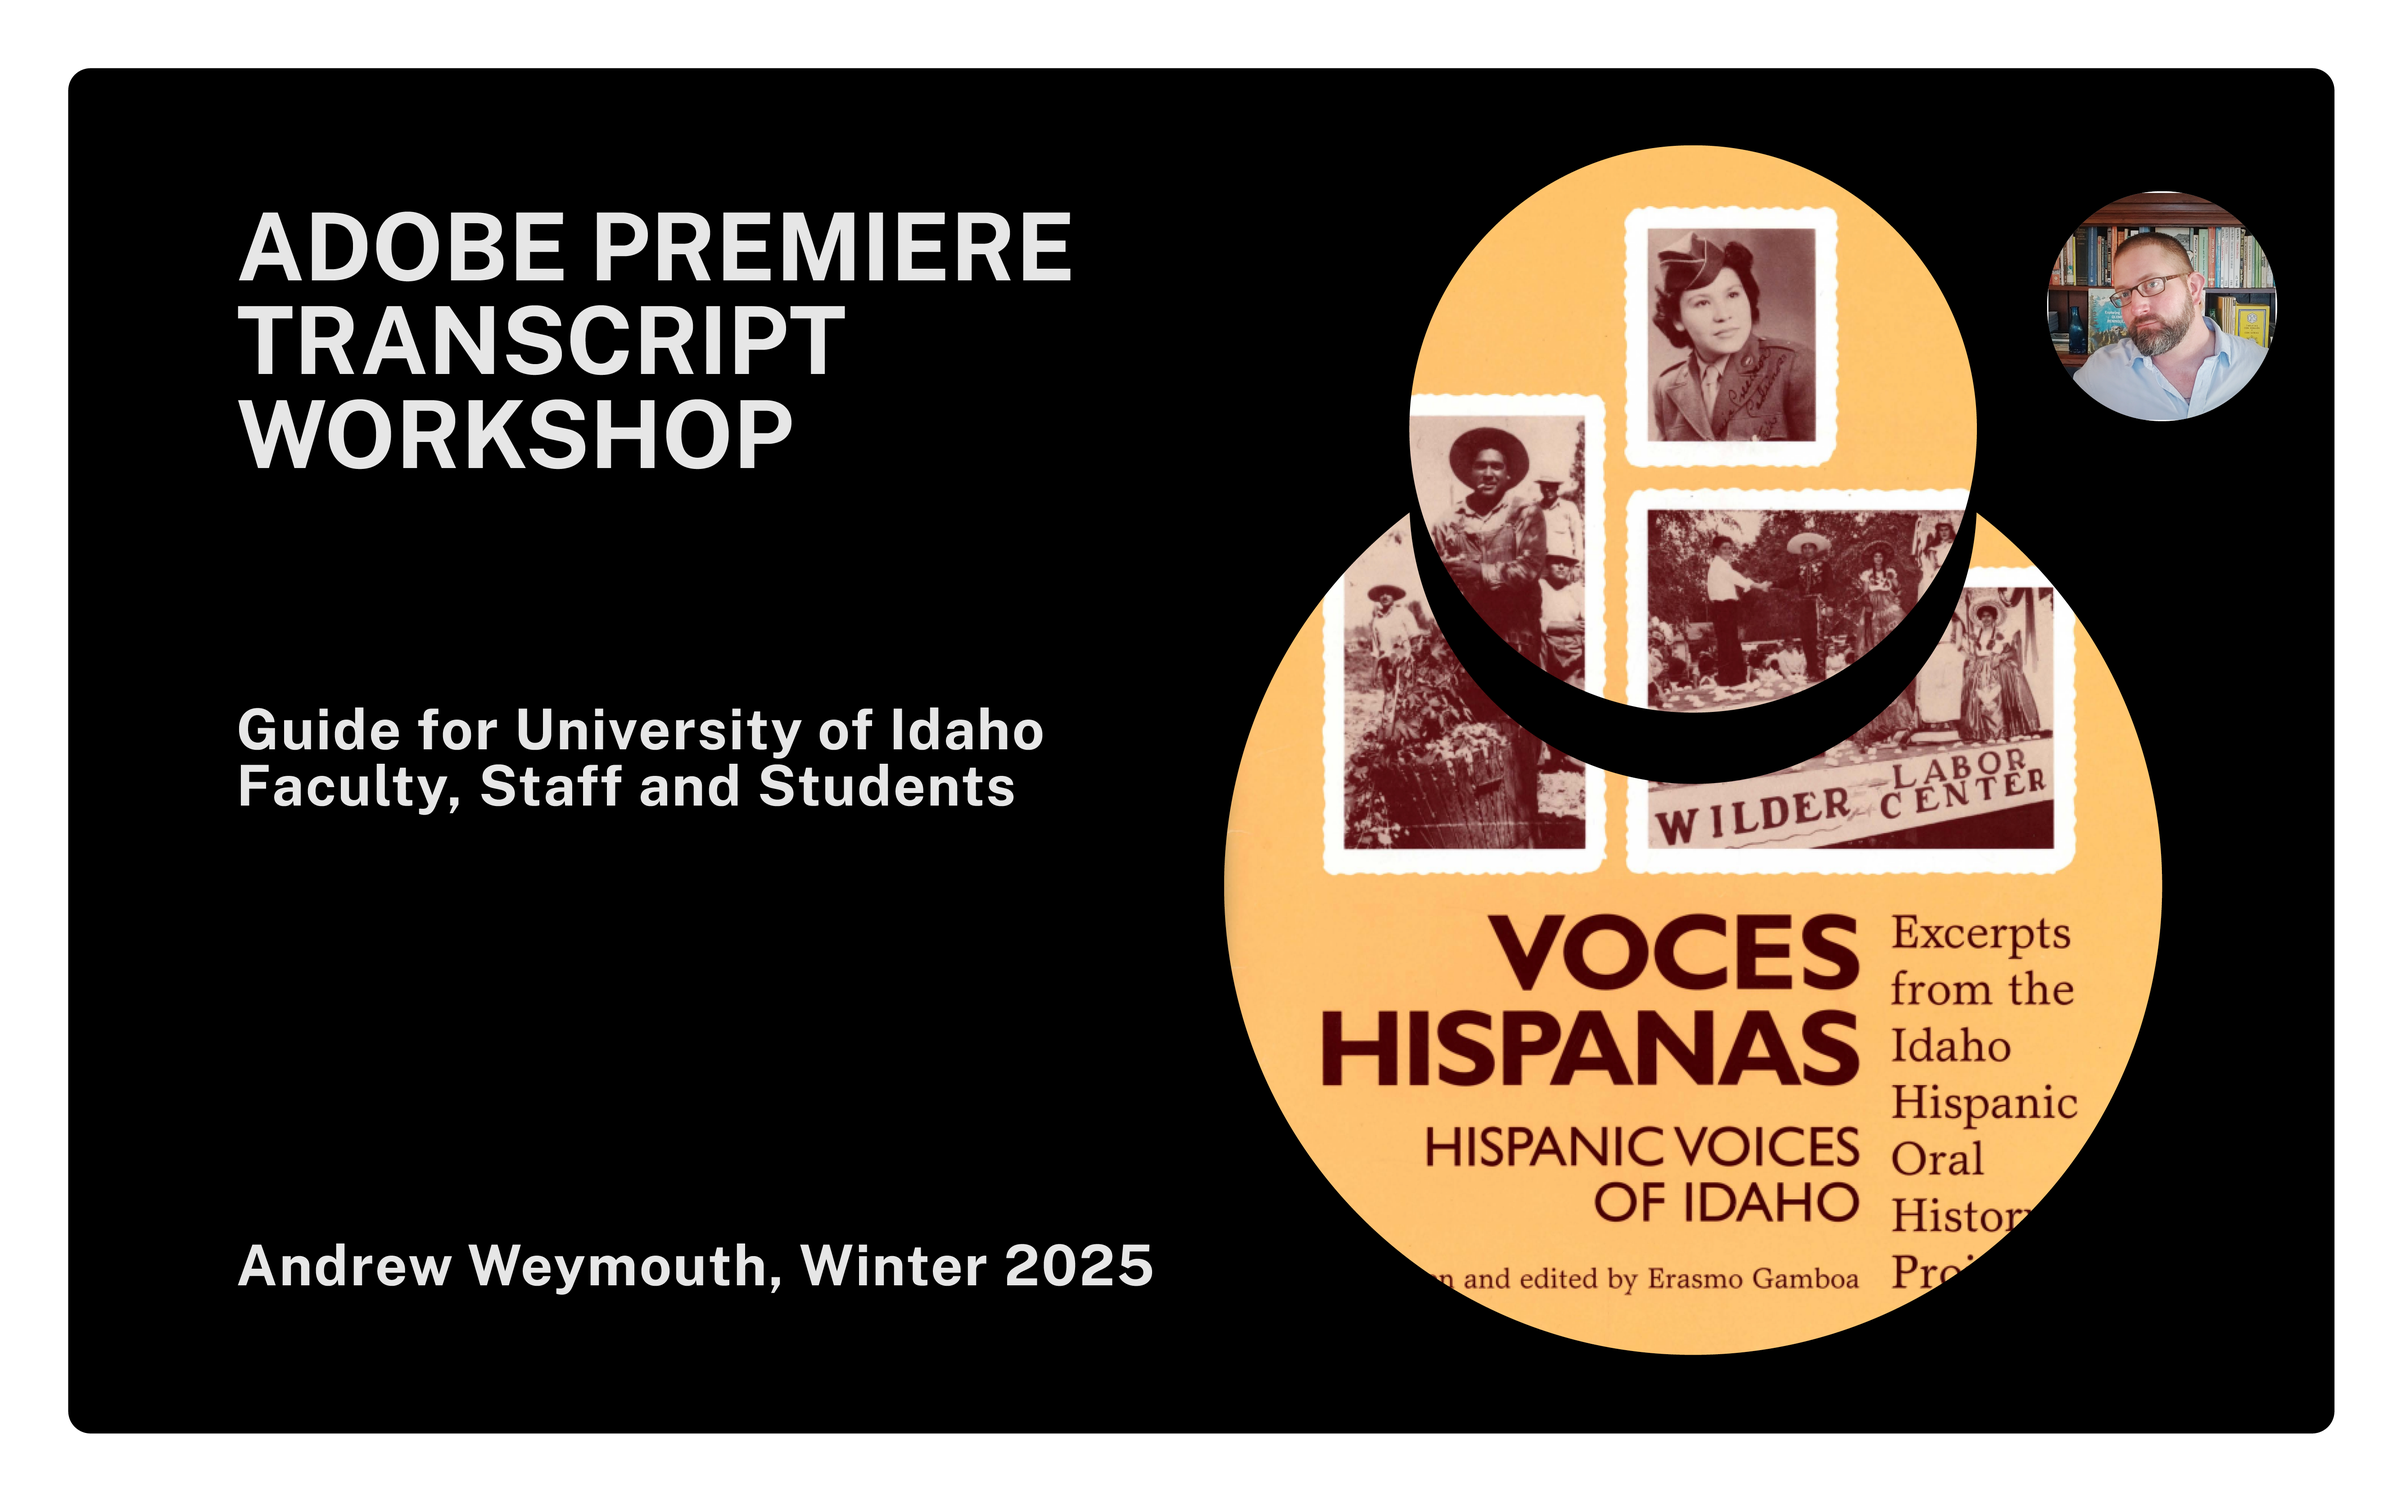
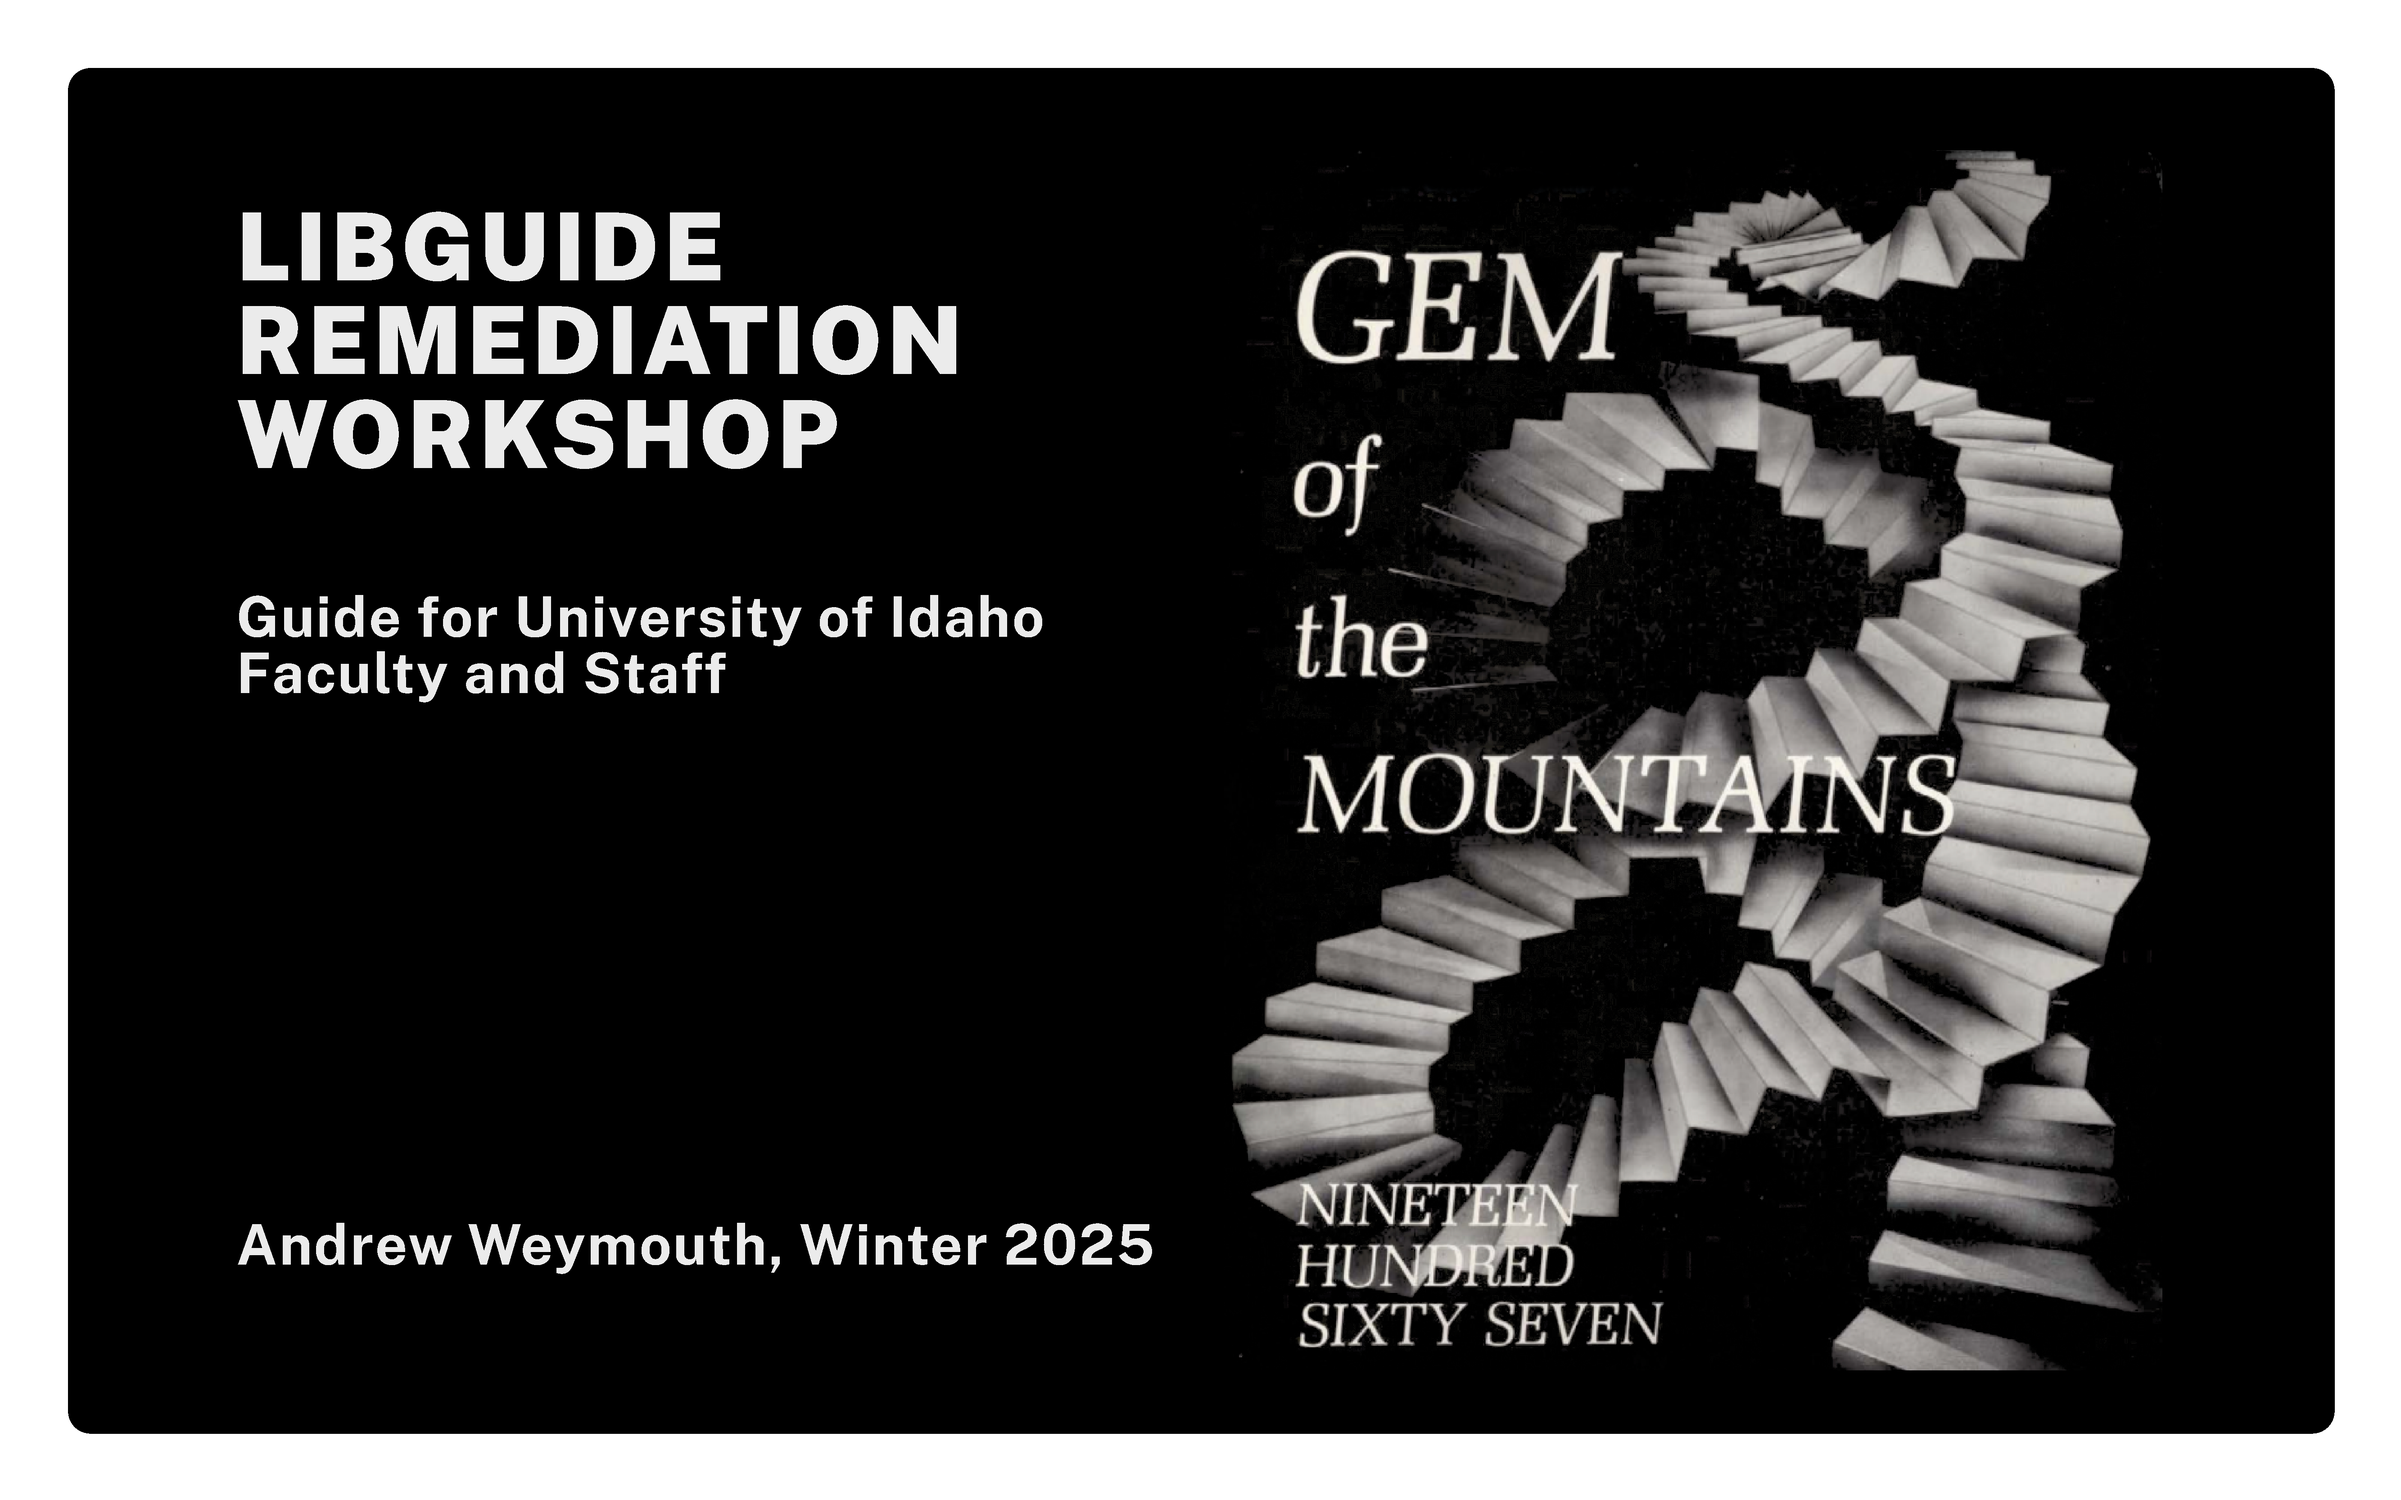
remove old media

diff --git a/content/1_guide.md b/content/1_guide.md
@@ -6,7 +6,7 @@ gallery: true
 
 <br>
 
-{% include feature/nav-menu.html sections="Open a New Project;Import Audio or Video Files;Configure Transcript Settings;Editing and Exporting Transcripts;Creating Captions" %}
+{% include feature/nav-menu.html sections="Images;PDFs;Media;Semantic Content;Check links" %}
 
 <br>
 
@@ -14,109 +14,51 @@ gallery: true
 
 <br>
 
-## Open a New Project
+## Getting Started
 
 <br>
 
-- Open a `New Project` in Premiere
+- To begin, visit the LibGuide you want to remediate, scroll to the bottom of the page and select `Login to LibApps.`
 
-    {% include gallery-figure.html img="premiere_transcript_07.png" alt="Screenshot of Premiere interface start menu with the New Project button on the top left." width="100%" %}
+    {% include gallery-figure.html img="lib_remed_02.png" alt="Screen capture of the LibGuide interface with a red arrow pointing toward the bottom right of the screen." %}
 
-- If it isn’t already set up by default, select the `Window` from the top menu and select `Text`, which should open on the top left of the interface
 
-    {% include gallery-figure.html img="premiere_transcript_01.png" alt="Screenshot of Premiere with red arrows pointing to both the Window section of the top menu and the transcript window in the top left of the interface."  width="100%" %}
 
 <br>
 
-## Import Audio or Video Files
+## Images 
 
 <br>
 
-- Drop the audio from the media browser window on the bottom left into the timeline on the bottom left
-
-    {% include gallery-figure.html img="premiere_transcript_08.png" alt="Screenshot of Premiere interface highlighting the media browser section."  width="100%" %}
-
-- Drag that audio into the timeline section
-
-    {% include gallery-figure.html img="premiere_transcript_06.png" alt="Screenshot of Premiere interface highlighting the timeline function."  width="100%" %}
 
 <br>
 
-## Configure Transcript Settings
+## PDFs
 
 <br>
 
-- With the first `Transcript` tab open on the `Text` window, you will be given a prompt that says “do you want to auto transcribe media?” Instead, select the ellipses on the top right of the transcript window and then select `Generate Static Transcript`
-
-    {% include gallery-figure.html img="premiere_transcript_03.png" alt="Screenshot of Premiere interface highlighting the transcript window and a red arrow pointing to the Generate Static Transcript function."  width="100%" %}
-
-- This will open a window where you can specify the language of your media and whether you would like to differentiate speakers in your transcript. If you have only one speaker on a recording, confirming this will keep the platform from looking for other speakers.
-
-    {% include gallery-figure.html img="premiere_transcript_02.png" alt="Screenshot of Premiere interface with Generate Static Transcript window."  width="100%" %}
-
-- Depending on the length and language of the audio, processing should take between 5-15 minutes on a Mac device (longer on a PC)
-
-- Once completed, you should have timestamps, generic speaker names (Speaker 1, Speaker 2, etc.) and dialogue
-
-    {% include gallery-figure.html img="premiere_transcript_05.png" alt="Screenshot of CSV with transcript between two speakers, timestamps and dialogue." caption="Example of Premiere Transcript output in Google Sheets" width="100%" %}
 
 <br>
 
-## Editing and Exporting Transcripts
+## Media
 
 <br>
 
-- While Adobe Sensei is one of the better transcription models we've tested, you will run into errors depending on the quality of the recording and the similarity of the speaker's voices
 
 <br>
 
-{% include alert.html text="One of the handy things about editing your transcripts in Premiere is that playback follows the text in the Transcript window, so it is a smoother workflow than coordinating with the audio player in one window and the transcript text in another" color="light" align="left" %}
+## Semantic Content
 
 <br>
 
-- To edit the speaker names (which default to Speaker 1, Speaker 2, etc.) select the ellipses to the left of the dialogue, edit or add additional speakers
-
-    {% include gallery-figure.html img="premiere_transcript_10.png" alt="Screenshot of the Premiere interface with red arrows pointing to the ellipses on the dialogue of the Transcript window, which opens the Edit Speakers module." width="100%" %}
-
-- To edit the dialogue, simply double click whichever passage need configuring
-
-    {% include gallery-figure.html img="premiere_transcript_09.png" alt="Screenshot of the Premiere interface with red arrows pointing a section of dialogue being edited." width="100%" %}
-
-- While cleaning up dialogue is easy to do in Premiere, if you need to combine dialogue sections or create new fields, these will need to be done in a spreadsheet or document
-
-- To export, click the ellipses on the `Text` window, find `Export` and choose either `CSV` for a spreadsheet or `TXT` for a document
-
-    {% include gallery-figure.html img="premiere_transcript_04.png" alt="Screenshot of Premiere interface with highlight of transcript window and red arrow pointing to Export function." width="100%" %}
 
 <br>
 
-## Creating Captions
+## Check links
 
 <br>
 
-- First, select the `CC` Create Captions button in the `Transcript` window
 
-    {% include gallery-figure.html img="premiere_transcript_11.png" alt="Screenshot of Premiere interface with an arrow pointing to the Create Captions button in the Transcript window." width="100%" %}
-
-- This will open a `Create Captions` module that will have some options for formatting, spacing and how many lines you would like the captions to display as
-
-    {% include gallery-figure.html img="premiere_transcript_12.png" alt="Screenshot of Premiere interface with an arrow pointing to the Create Captions button." width="100%" %}
-
-- This will create a caption track, displayed above the video track on the timeline. To adjust the font, size and area that the captions will be displayed, select the entire track of dialogue in the timeline, then select `Window` from the top menu, then `Workspaces`, then `Captioning and Graphics`.
-
-{% include gallery-figure.html img="premiere_transcript_13.png" alt="Screenshot of Premiere interface with an arrow pointing the new captions in the timeline as well as configurations in the Captions and Graphics window." width="100%" %}
-
-- To add a translated caption, select the `Caption Translation` button, then configure the correct source language as well as what you would like the language to be translated to
-
-{% include gallery-figure.html img="premiere_transcript_14.png" alt="Screenshot of Premiere interface with arrows pointing to the Caption Translation button and the various options you can configure this to." width="100%" %}
-
-- Finally, adjust the positioning of the captions so they don't overlap. In this case, I have configured both caption tracks to display in two lines. By adjusting the `Set Vertical Position` of the Spanish language track to -60.00, this lifts the text up over the English language while still being generally oriented at the bottom of the display. Setting this to -30.00 should work if you chose to have captions generate in a single line display.
-
-{% include gallery-figure.html img="premiere_transcript_15.png" alt="Screenshot of Premiere interface with arrows pointing at the selected caption track within the timeline and the Set Vertical Position function within the Captions and Graphics window." width="100%" %}
-
-- To export these captions, select `Export` from the top left. Within this menu you can adjust your file name, export destination, and choose to export as a video, audio, gif or image file in the `Format` section (default will be mp4, which is a solid, lower file size option). When you have everything configured, select the `Export` function in the lower right hand corner.
-
-{% include gallery-figure.html img="premiere_transcript_16.png" alt="Screenshot of Premiere interface with arrows pointing to the Export tab, Format and Export button." width="100%" %}
 
 <br>
 

diff --git a/index.md b/index.md
@@ -5,21 +5,17 @@ gallery: true
 ---
 
 
-{% include gallery-figure.html img="banner.png" alt="title card of the presentation Adobe Premiere Transcript Workshop, guide for University of Idaho Faculty, staff and Students, Andrew Weymouth, Winter 2025 and an image of two circles using the cover of the book Voces Hispanas: Hispanic Voices of Idaho." %}
+{% include gallery-figure.html img="banner.png" alt="Title card of the presentation LibGuide Remediation Workshop, Guide for University of Idaho Faculty, staff and Students, Andrew Weymouth, Winter 2025 and an illustration of spiralling stairwells from the Gem of the Mountain 1967 yearbook." %}
 
 <br>
 
-At the library, we have been working together to make sure our digital collections and main site meet the technical standards of the [Web Content Accessibility Guidelines 2.1](https://www.w3.org/TR/WCAG21/) and part of those efforts has been to make sure all of our video and audio files have transcripts. This is beneficial not only for our patrons using screen readers but also for all of our patrons to make oral history recordings keyword searchable.
+At the library, we have been working together to make sure our digital collections and main site meet the technical standards of the [Web Content Accessibility Guidelines 2.1](https://www.w3.org/TR/WCAG21/) and part of those efforts has been to make sure all of our instructional material is formatted correctly so all patrons can navigate our materials more easily.
 
 <br>
 
-> The following steps will guide you through how to generate a transcript of either audio or video files using Adobe Premiere. This will also describe how to edit and export these files or turn your transcripts into captions. 
+> The following steps will guide you through how to remediate your LibGuides for accessibility. 
 
 <br>
-
-**A Note for Students**:
-
-Adobe Suite, which includes Premiere, [is listed as being available on the student lab computers](https://support.uidaho.edu/TDClient/40/Portal/KB/ArticleDet?ID=89) on the second floor of the library. Premiere is also available in the [digital editing station of the studio](https://www.lib.uidaho.edu/studio/equipment.html), which can be reserved [here](https://libcal.uidaho.edu/reserve/AV) . If students want to access Premiere through their devices, they need to be [enrolled in a course where the software is required](https://support.uidaho.edu/TDClient/40/Portal/KB/ArticleDet?ID=2709), and they can do that through [this OIT student software request form](https://support.uidaho.edu/TDClient/40/Portal/Requests/ServiceDet?ID=755).
 
 {% include toc.html %}
 
